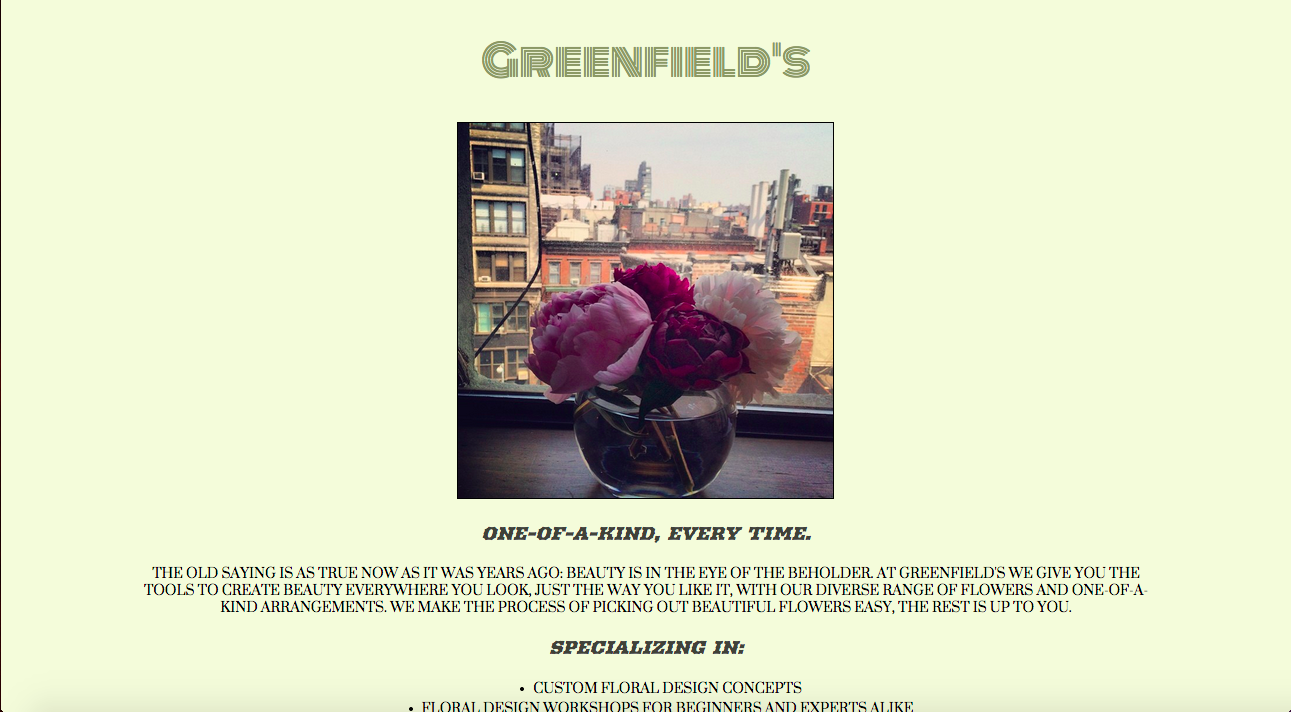
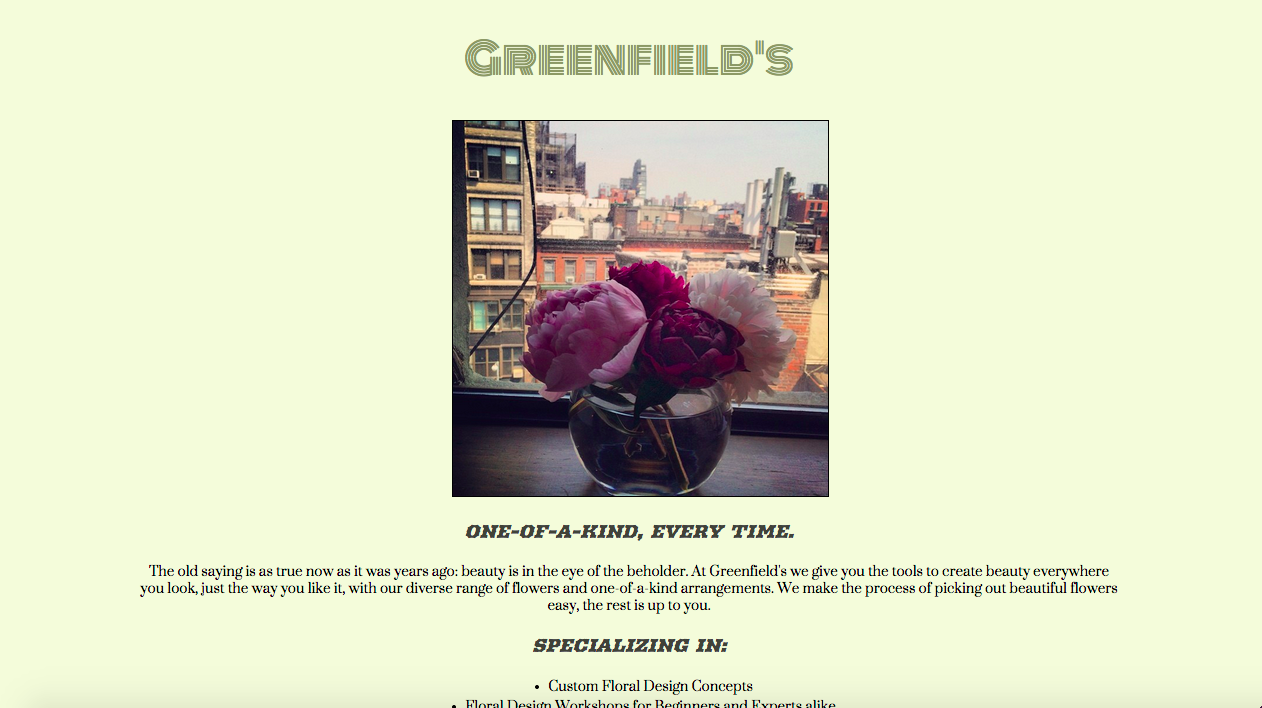
Unit 4 Update

Changed region(s): [[0.0927, 0.1554, 0.8962, 0.8701], [0.309, 0.9011, 0.7108, 1.0], [0.3708, 0.0311, 0.649, 0.1243]]

diff --git a/index.html b/index.html
@@ -11,7 +11,7 @@
 </head>
 <body>
 	<h1>Greenfield's</h1>
-	<img src="flowerheader.jpg" alt="Floral Design Sample" height=500 width=500 hspace=600 border=2>
+	<center><img src="flowerheader.jpg" alt="Floral Design Sample" height=500 width=500 border=2></center>
 	<p id="slogan">One-of-a-Kind, Every Time.</p>
 	<p>The old saying is as true now as it was years ago: beauty is in the eye of the beholder. At Greenfield's we give you the tools to create beauty everywhere you look, just the way you like it, with our diverse range of flowers and one-of-a-kind arrangements. We make the process of picking out beautiful flowers easy, the rest is up to you. </p>
 	<p id="slogan">Specializing in:</p>

diff --git a/styles.css b/styles.css
@@ -14,7 +14,6 @@ p {
 	font-weight: normal;
 	font-size: 18px;
 	text-align: center;
-	text-transform: uppercase;
 	margin-left: 10em;
 	margin-right: 10em;
 }
@@ -34,6 +33,5 @@ ul{
 	font-weight: normal;
 	font-size: 18px;
 	text-align: center;
-	text-transform: uppercase;
     list-style-position: inside;
 }
